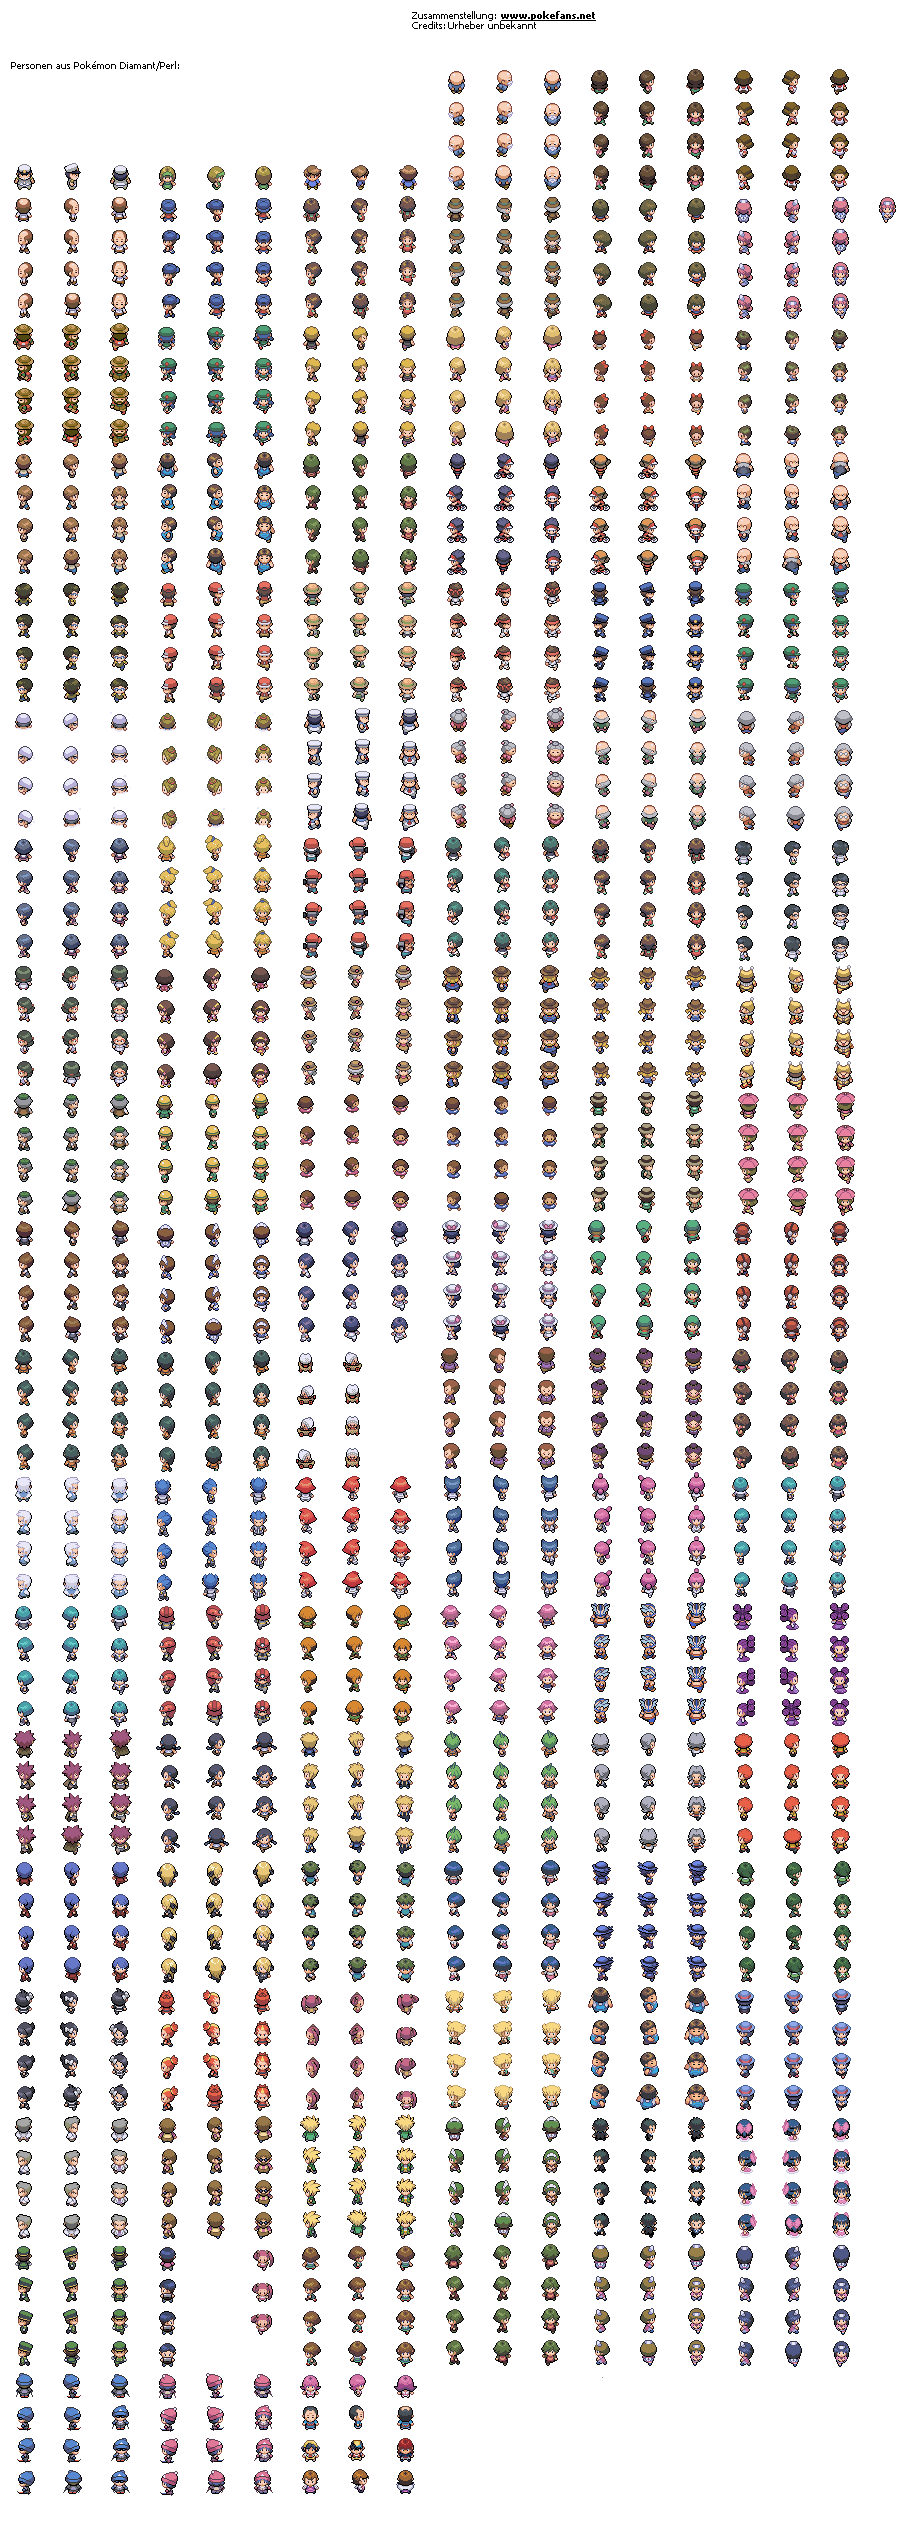
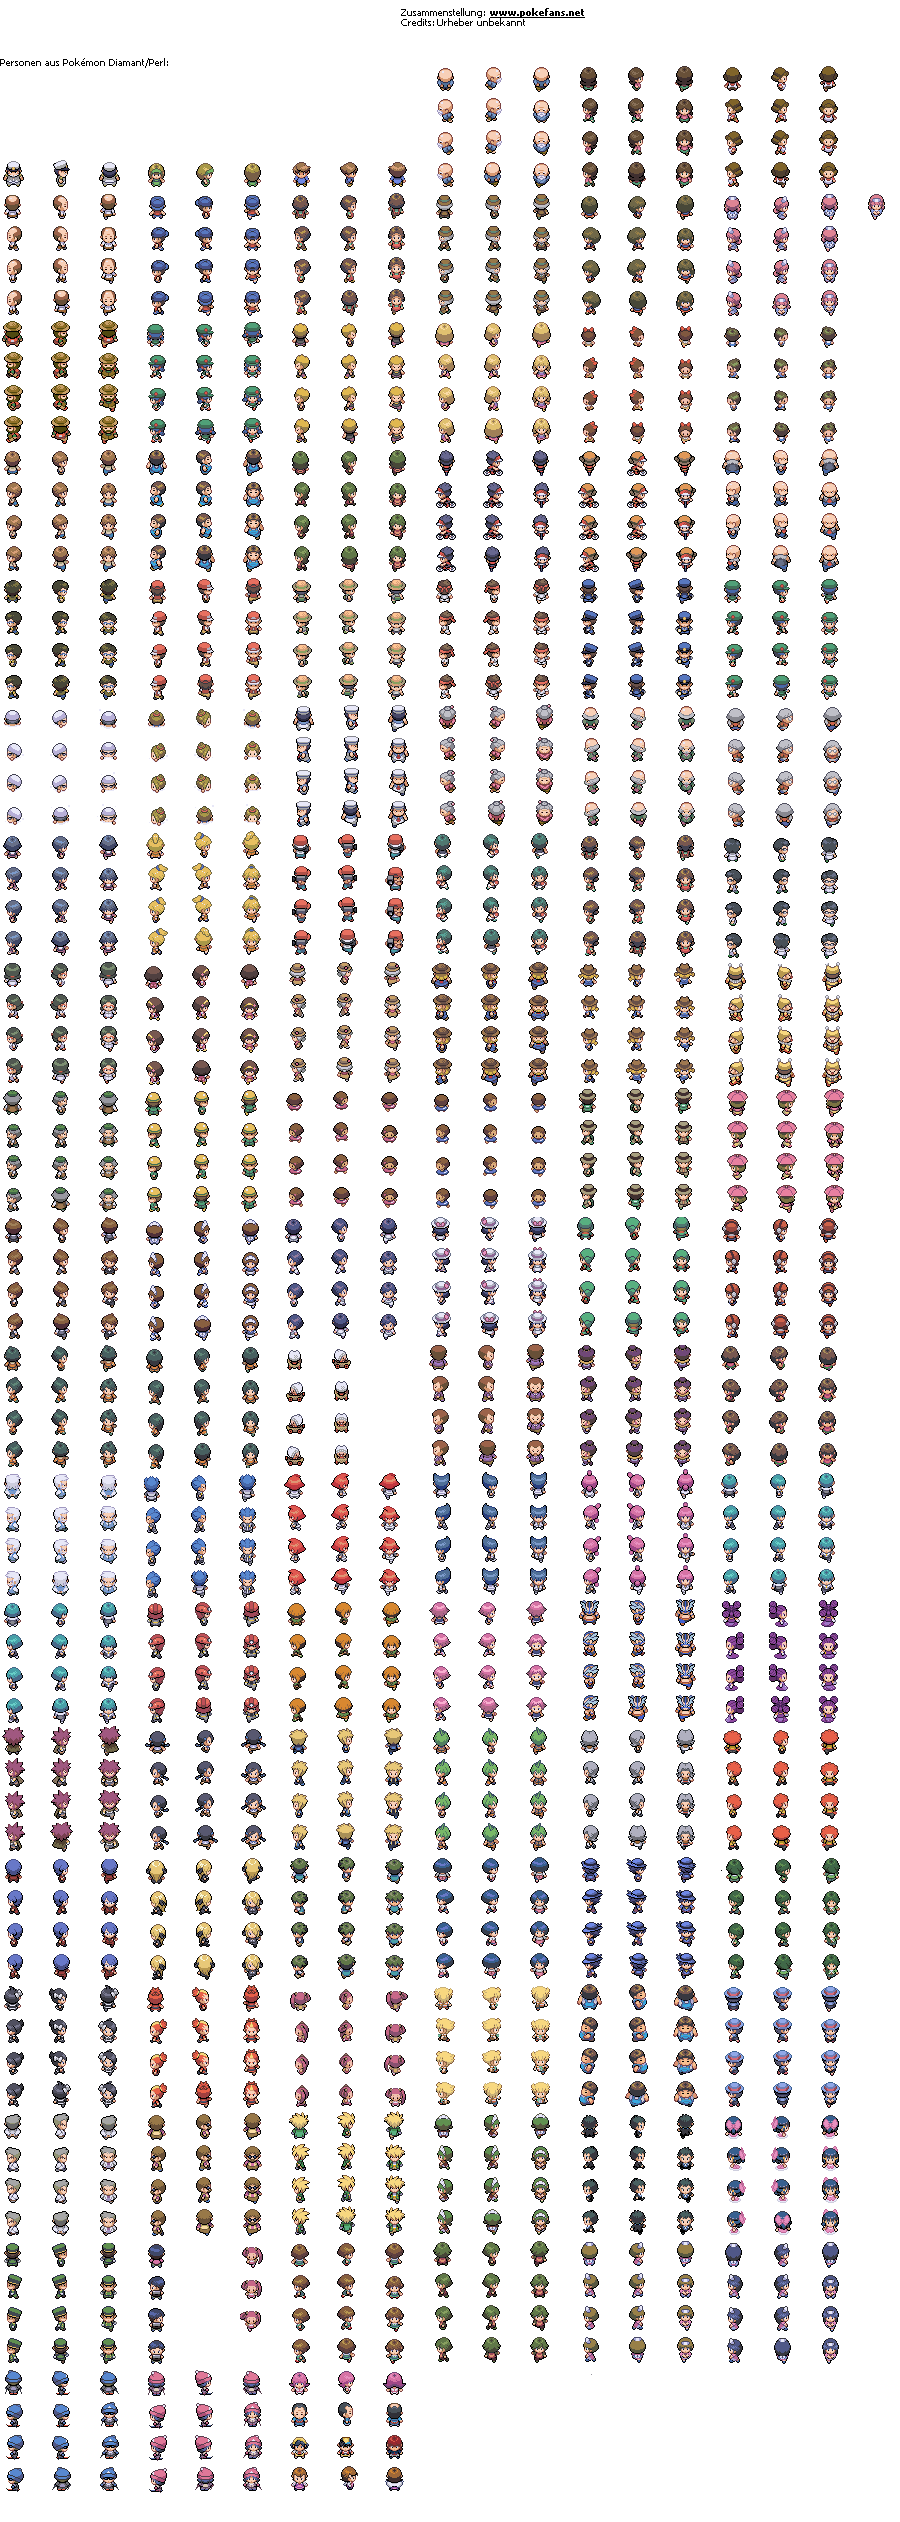
Changement de l'image du héros

Changed region(s): [[0.0, 0.0, 0.9956, 0.9897]]

diff --git a/class/Hero.cpp b/class/Hero.cpp
@@ -17,12 +17,12 @@ Hero::Hero(string name, sf::Texture &texture) : Hero::Hero() {
     setName(name);
     setTexture(texture);
    
-    int tileHeight = 25;
-    int tileWidth = 20;
+    int tileHeight = 24;
+    int tileWidth = 22;
     
     sf::Rect <int> rect;
-    rect.top = 0 * tileHeight;
-    rect.left = 0 * tileWidth;
+    rect.top = 588 + tileHeight;
+    rect.left = 78 + tileWidth;
     rect.height = tileHeight;
     rect.width = tileWidth;
     

diff --git a/main.cpp b/main.cpp
@@ -65,7 +65,7 @@ int main(int, char const**)
     // Ressources
     string resPathMap = resourcePath() + "map.tmx";
     string resPathTileset = resourcePath() + "tileset-shinygold.png";
-    string resPathTilesetCharacters = resourcePath() + "spritesofpeople2.png";
+    string resPathTilesetCharacters = resourcePath() + "personen-dp.png";
     
     // Test Hero
     sf::Image tilesetImageCharacters;
